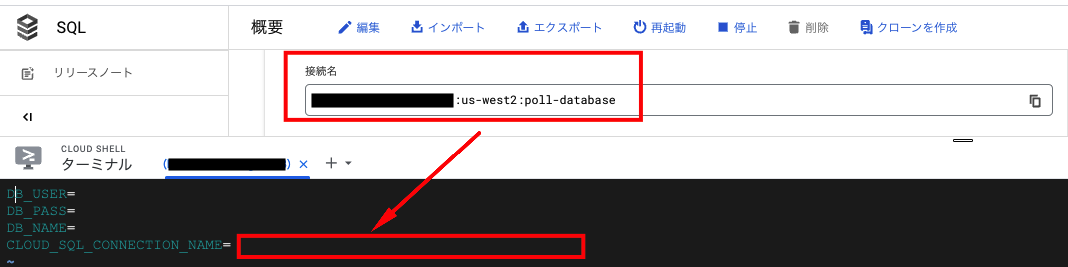
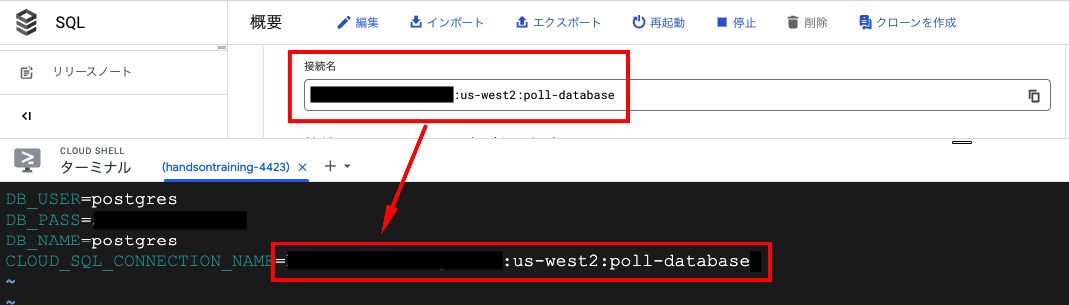
cloudsql

Changed region(s): [[0.0, 0.0, 1.0, 0.9888], [0.309, 0.0599, 0.5562, 0.1199], [0.0, 0.9888, 0.0309, 1.0]]

diff --git a/cloud-run-cloud-sql/python/vote-for-tabs-or-spaces/README.md b/cloud-run-cloud-sql/python/vote-for-tabs-or-spaces/README.md
@@ -38,12 +38,18 @@ CONNECTION_NAME=# YOUR CONNECTION NAME GOES HERE
 
 3. vimコマンドを使って、`.env` を修正  
 下記の環境変数を修正してください。  
+
 ```
 DB_USER=
 DB_PASS=
 DB_NAME=
 CLOUD_SQL_CONNECTION_NAME=
 ```
+
+`DB_USER` と `DB_NAME` には、何も指定がなければ、  
+デフォルトで、`postgres` を入力、`DB_PASS` には、  
+`Cloud SQL` インスタンス作成時に設定したパスワードを入力。
+
 `CLOUD_SQL_CONNECTION_NAME` はCloudSQLインスタンスの`接続先名`を記入してください。
 ![CLOUD_SQL_CONNECTION_NAME](image/gcp_sql_env_connection.png)
 
